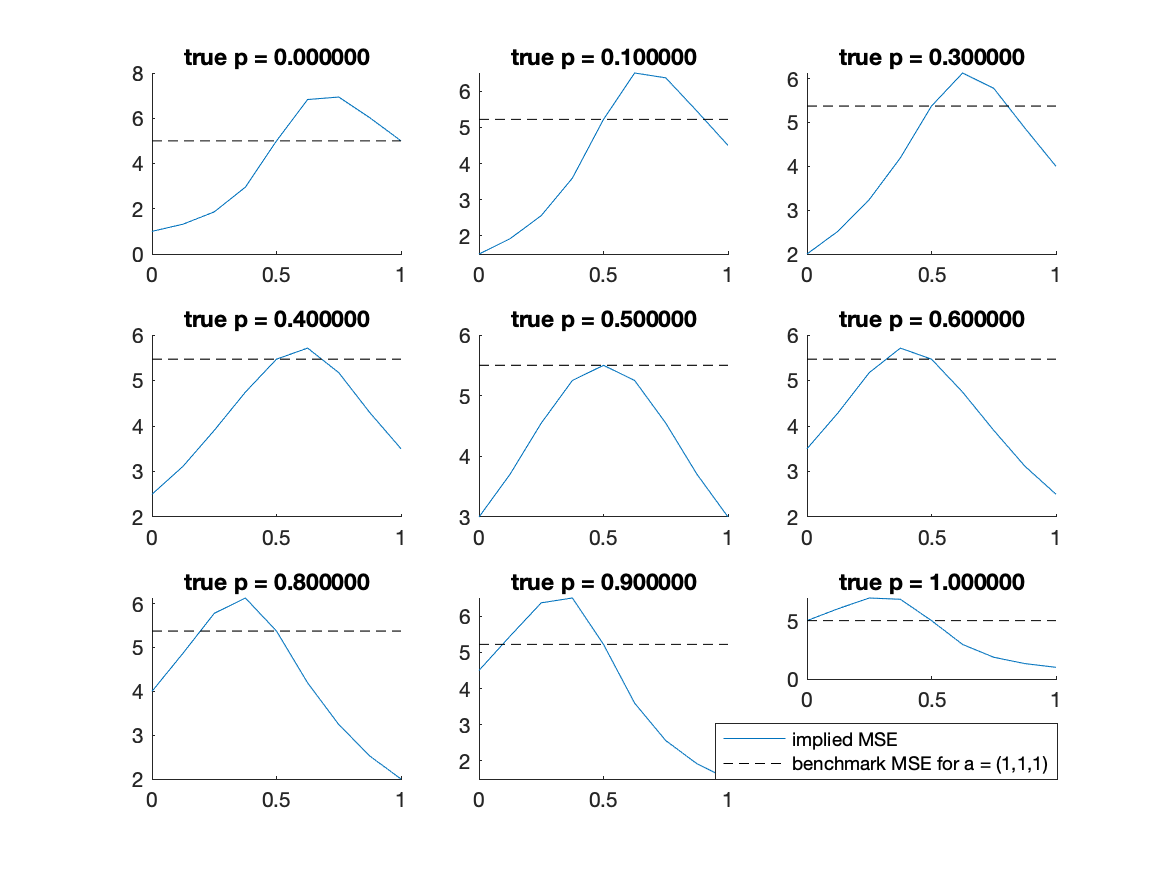
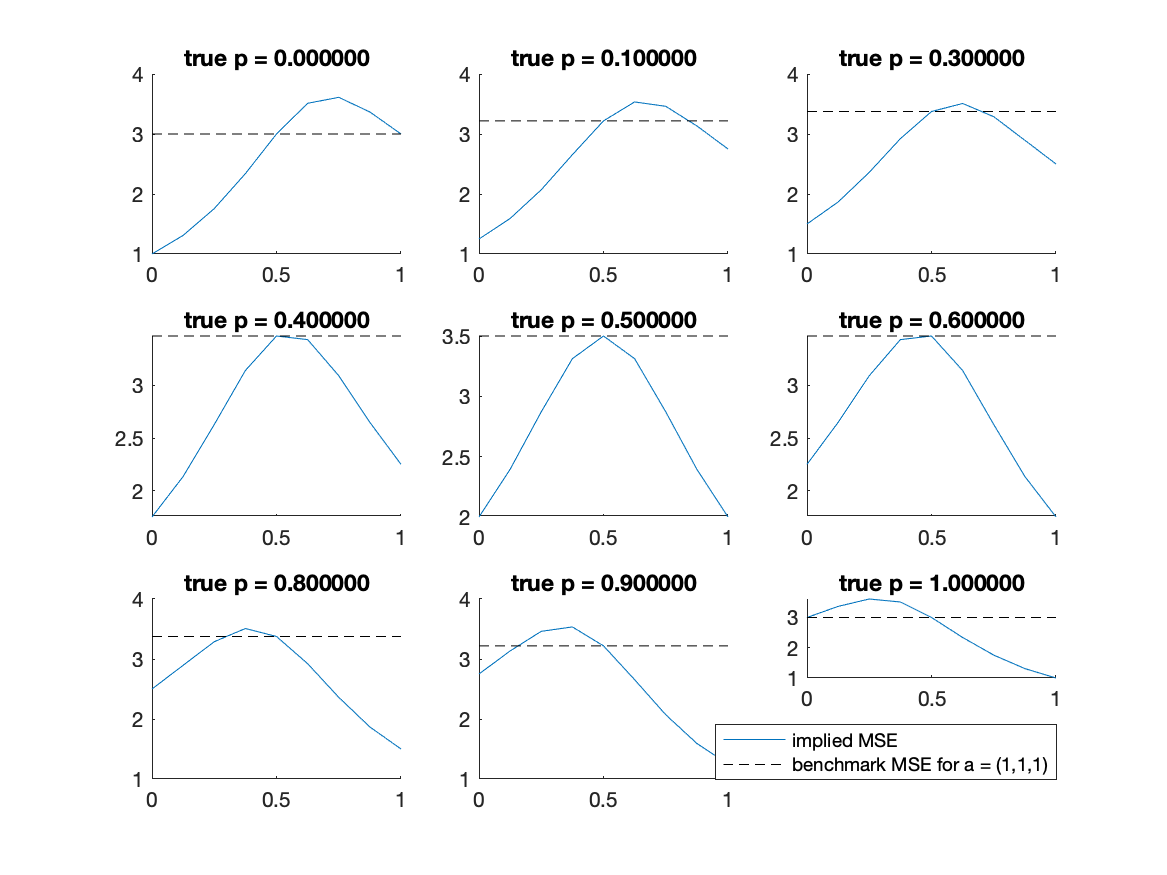
making the bias variance code awesome

diff --git a/Code/do_bias_analysis.m b/Code/do_bias_analysis.m
@@ -1,27 +1,31 @@
-function f = do_bias_analysis(mu, sig, kappa, omeg)
+function f = do_bias_analysis(correct_mean, correct_var, incorrect_mean, incorrect_var)
 
 % range of P to try, numP set  for graphing purposes
-numP = 9;
-trueP = linspace(0, 1, numP);
+numP = 5;
+numBeliefs = 20;
+trueP = linspace(0, 0.5, numP);
+beliefs = linspace(0,1,numBeliefs);
 
 % variance of x1,x2 for different values of p
-varX1 = trueP*sig^2 + (1.-trueP)*omeg^2 + trueP.*(1.-trueP)*(kappa-mu)^2;
-varX2 = (1.-trueP)*sig^2 + trueP*omeg^2 + trueP.*(1.-trueP)*(kappa-mu)^2;
+varX1 = beliefs*correct_var+ (1.-beliefs)*incorrect_var+ beliefs.*(1.-beliefs)*(incorrect_mean - correct_mean)^2;
+varX2 = (1.-beliefs)*correct_var + beliefs*incorrect_var+ beliefs.*(1.-beliefs)*(incorrect_mean - correct_mean)^2;
 
 % define bias function with parameter values
-calc_bias = @(a, p1) a(1)*(p1*mu + (1-p1)*kappa) + a(2)*((1-p1)*mu + p1*kappa) - a(3)*kappa;
+calc_bias = @(a, p1) a(1)*(p1*correct_mean + (1-p1)*incorrect_mean) + a(2)*((1-p1)*correct_mean + p1*incorrect_mean) - a(3)*incorrect_mean;
 
 % define variables for plotting
 formatSpec = 'true p = %f';
 fig1 = figure;
-fig2 = figure;
+
+% uncomment code for separate mse plot
+% fig2 = figure;
 
 for t=1:numP            % t indicates true prob
     bias = zeros(numP,1);
     vars = zeros(numP,1);
     
-    for i=1:numP        % i indicates believed prob
-        a = calcA(trueP(i),varX1(i), varX2(i));
+    for i=1:numBeliefs        % i indicates believed prob
+        a = calcA(beliefs(i),varX1(i), varX2(i));
         bias(i) = calc_bias(a, trueP(t));
         vars(i) = calc_var(a, varX1(t), varX2(t));
     end
@@ -32,32 +36,51 @@ for t=1:numP            % t indicates true prob
     
     % plot bias/variance tradeoff
     figure(fig1);
-    subplot(3,3,t);
+    if t == numP
+        subplot(3,2,[5 6])
+    else
+        subplot(3,2,t);
+    end
     hold on
     title(sprintf(formatSpec, round(trueP(t),1)))
-    plot(trueP, bias)
-    plot(trueP, vars)
-    plot([trueP(1), trueP(numP)], [varComp, varComp], '--k')
-    plot([0.5, 0.5], [min(bias), max(vars)], '--k')
+    h(1) = plot(beliefs, bias, 'r', 'DisplayName','Bias');
+    h(2) = plot(beliefs, vars, 'b', 'DisplayName','Variance');
+    h(3) = plot(beliefs, MSE, 'g', 'DisplayName', 'MSE');
+    h(4) = plot([beliefs(1), beliefs(numBeliefs)], [varComp, varComp], '--k', 'DisplayName', 'Equal weights');
+    h(5) = plot([0.5, 0.5], [min(bias), max(MSE)], '--k');
     hold off
     
-    % plot MSE
-    figure(fig2);
-    subplot(3,3,t);
-    hold on
-    title(sprintf(formatSpec, round(trueP(t),1)))
-    plot(trueP, MSE)
-    plot([trueP(1), trueP(numP)], [varComp, varComp], '--k')
-    hold off
+    % uncomment code for separate MSE plot
+    
+    %     figure(fig2);
+    %     subplot(3,2,t);
+    %     hold on
+    %     title(sprintf(formatSpec, round(trueP(t),1)))
+    %     plot(beliefs, MSE)
+    %     plot([beliefs(1), beliefs(numBeliefs)], [varComp, varComp], '--k')
+    %     hold off
+    
 end
 paramSpec = '%d_%d_%d_%d';
-str = sprintf(paramSpec,mu, sig, kappa, omeg);
+%fix this so that it is actually inputs in string form, ie sqrt 2?
+str = sprintf(paramSpec,correct_mean, correct_var, incorrect_mean, incorrect_var);
 
-figure(fig1);
-legend('Location','southoutside', 'bias','variance', 'benchmark a = (1,1,1)')
+% figure(fig1);
+legend(h(1:4), 'Location', 'southoutside','orientation','horizontal')
+
+titleSpec = 'Correct Distribution: (%d,%d)  Incorrect Distribution: (%d,%d)';
+sgtitle(sprintf(titleSpec, correct_mean, correct_var, incorrect_mean, incorrect_var))
+
 saveas(fig1,strcat('../Figures/bias_var_tradeoff_',str,'.png'));
-figure(fig2);
-legend('Location','southoutside', 'implied MSE', 'benchmark MSE for a = (1,1,1)')
-saveas(fig2,strcat('../Figures/mse_',str,'.png'));
+
+% uncomment code for separate mse plot
+
+% figure(fig2);
+% subplot(3,2,6)
+% plot(0,0,  0,0,  0,0,  0,0)
+% axis off
+% legend('Location','southoutside', {'implied MSE', 'benchmark MSE for a = (1,1,1)'}, 'FontSize',14)
+% saveas(fig2,strcat('../Figures/mse_',str,'.png'));
+
 end
 
